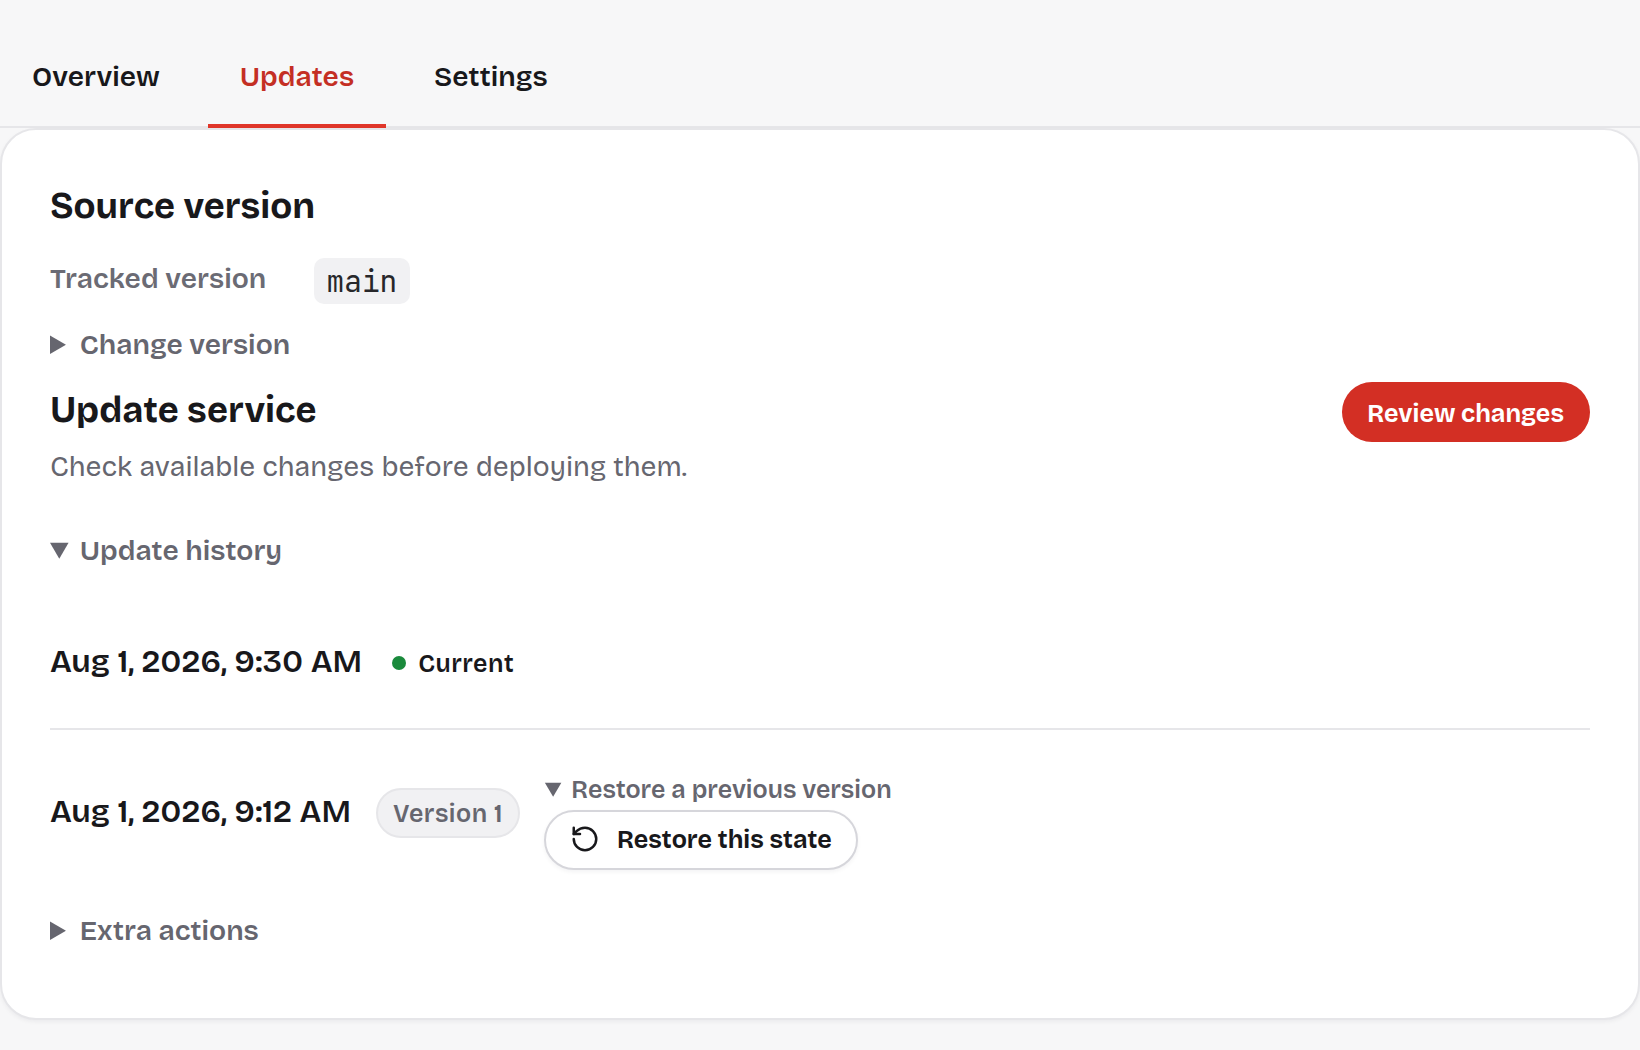
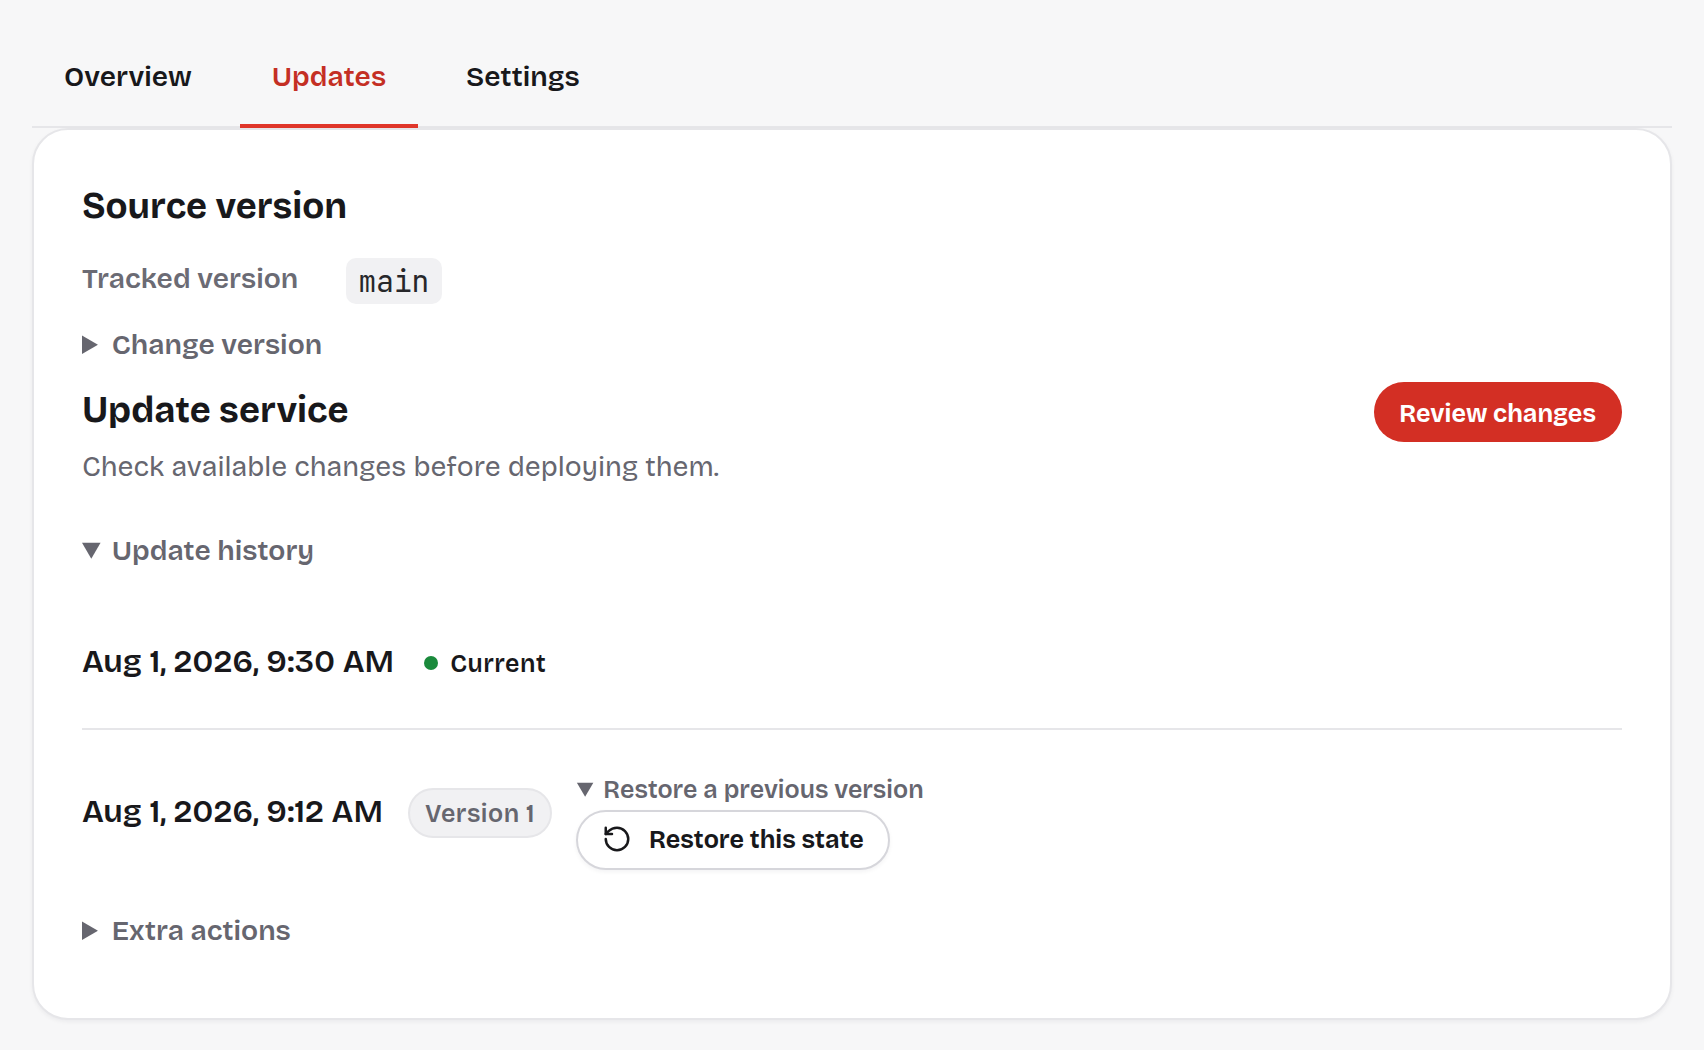
website, docs: tighten the updates capture and its framing
Review follow-up. Capture in UTC so the history's times do not depend on the
host; wait for the tracked ref and an enabled Review changes; fail if the
phone card would fall below the landing's crop. Give the Quickstart image a
margin around the card, narrow the landing's gap above the new figure, and
say in step 7 that restoring re-plans that version's source. Provenance now
lists only the reads this tab makes and the updates-only capture argument.

diff --git a/website/src/styles/redesign.css b/website/src/styles/redesign.css
@@ -78,7 +78,7 @@ main { display: block; }
 .install-layout { display: grid; grid-template-columns: minmax(260px, .78fr) minmax(0, 1.22fr); align-items: center; gap: clamp(42px, 6vw, 88px); padding-block: 100px; }
 .install-intro > p { max-width: 39ch; margin: 24px 0 25px; color: var(--tg-color-muted); line-height: 1.85; }
 .install-product { min-width: 0; margin: 0; }
-.after-section { display: grid; grid-template-columns: minmax(0, 1fr) minmax(0, 1fr); gap: clamp(48px, 8vw, 126px); padding-block: 118px 130px; }
+.after-section { display: grid; grid-template-columns: minmax(0, 1fr) minmax(0, 1fr); gap: clamp(48px, 6vw, 72px) clamp(48px, 8vw, 126px); padding-block: 118px 130px; }
 .after-intro > p { max-width: 51ch; margin: 22px 0 0; color: var(--tg-color-muted); line-height: 1.85; }
 .add-steps { margin: 26px 0 28px; padding: 0; list-style: none; border-top: 1px solid var(--tg-color-rule); }
 .add-steps li { padding: 16px 0 18px; border-bottom: 1px solid var(--tg-color-rule); }

diff --git a/website/scripts/capture-product-ui-provenance.md b/website/scripts/capture-product-ui-provenance.md
@@ -109,13 +109,15 @@ and its 「追加する」 button.
 
 The four `dashboard-updates-*` images, captured on 2026-10-16 from the dashboard
 source at `66f059361`, show the Takos workload page's 「更新」 tab. The script
-answers that page's reads in the browser (the workload, its install config and
-source, provider bindings, usage, the resource inventory, and three recorded
-state versions) and then opens 「更新履歴」 and the second version's
-「以前の状態に戻す」, as a reader would. The times, IDs and the tracked ref
+answers that tab's reads in the browser (the workload, its install config and
+source, usage, the resource inventory, and three recorded state versions; the
+fixture server's activity feed is empty and sits below the image) and then
+opens 「更新履歴」 and the second version's 「以前の状態に戻す」, as a reader
+would. Times are formatted in UTC. The times, IDs and the tracked ref
 `v0.12.7` are illustrative; the page shows only what those records contain, and
 nothing is restored or applied. The capture fails unless the history shows all
-three versions and the 「この状態に戻す」 button. Pressing that button in the
+three versions, the tracked ref and an enabled 「変更を確認」, and the
+「この状態に戻す」 button. Pressing that button in the
 real dashboard creates a plan back to that version, reviewed and applied like
 any other change.
 
@@ -179,7 +181,7 @@ capture fails unless each heading appears and the review shows 0, 0 and 0 with
 its 「追加する」 (Add) button.
 
 The step 7 image shows the same sample's 「更新」 / Updates tab, clipped from the
-tabs to the bottom of the update card. Its page reads are answered the same way
+tabs to just below the update card, with a 16px margin around the card. Its page reads are answered the same way
 as the landing's updates screen, with two recorded versions, as after one more
 apply of the sample; 「更新履歴」 and the first
 version's 「以前の状態に戻す」 are opened before the capture. The tracked ref is
@@ -187,5 +189,6 @@ the Quickstart link's `main`.
 
 The default run (`all`) rewrites these together with the website images. To
 refresh only these, run the script with `all quickstart` (or `light
-quickstart` / `dark quickstart`). If the image sizes change, update the
+quickstart` / `dark quickstart`); `all updates` refreshes only the landing's
+updates images. If the image sizes change, update the
 `width` and `height` attributes in both Quickstart pages to match.

diff --git a/docs/en/getting-started/quickstart.md b/docs/en/getting-started/quickstart.md
@@ -128,10 +128,11 @@ On the workload page that **Open service** opened, expand **Update history** on
 the **Updates** tab. It lists each apply with its time and marks the version in
 use as **Current**. After a later apply, **Restore a previous version** →
 **Restore this state** on an older entry creates the changes (a plan) that take
-the workload back to it; as in step 6, review them before they are applied.
+the workload back to that version's source; as in step 6, review them before
+they are applied.
 
-[![The Updates tab. Under the tracked version main and the Review changes button, Update history lists the Current version and Version 1 with their times; Restore a previous version on Version 1 is open and shows the Restore this state button (an example after a second apply)](/getting-started/quickstart-updates-en.png){.screenshot width=1640 height=1050}](/getting-started/quickstart-updates-en.png){.light-only}
-[![The Updates tab. Under the tracked version main and the Review changes button, Update history lists the Current version and Version 1 with their times; Restore a previous version on Version 1 is open and shows the Restore this state button (an example after a second apply)](/getting-started/quickstart-updates-en-dark.png){.screenshot width=1640 height=1050}](/getting-started/quickstart-updates-en-dark.png){.dark-only}
+[![The Updates tab. Under the tracked version main and the Review changes button, Update history lists the Current version and Version 1 with their times; Restore a previous version on Version 1 is open and shows the Restore this state button (an example after a second apply)](/getting-started/quickstart-updates-en.png){.screenshot width=1704 height=1050}](/getting-started/quickstart-updates-en.png){.light-only}
+[![The Updates tab. Under the tracked version main and the Review changes button, Update history lists the Current version and Version 1 with their times; Restore a previous version on Version 1 is open and shows the Restore this state button (an example after a second apply)](/getting-started/quickstart-updates-en-dark.png){.screenshot width=1704 height=1050}](/getting-started/quickstart-updates-en-dark.png){.dark-only}
 
 The plan and apply Runs are listed newest first, as **Review** (plan) and
 **Deploy** (apply), under **Deploy history** in the user menu behind your initial
